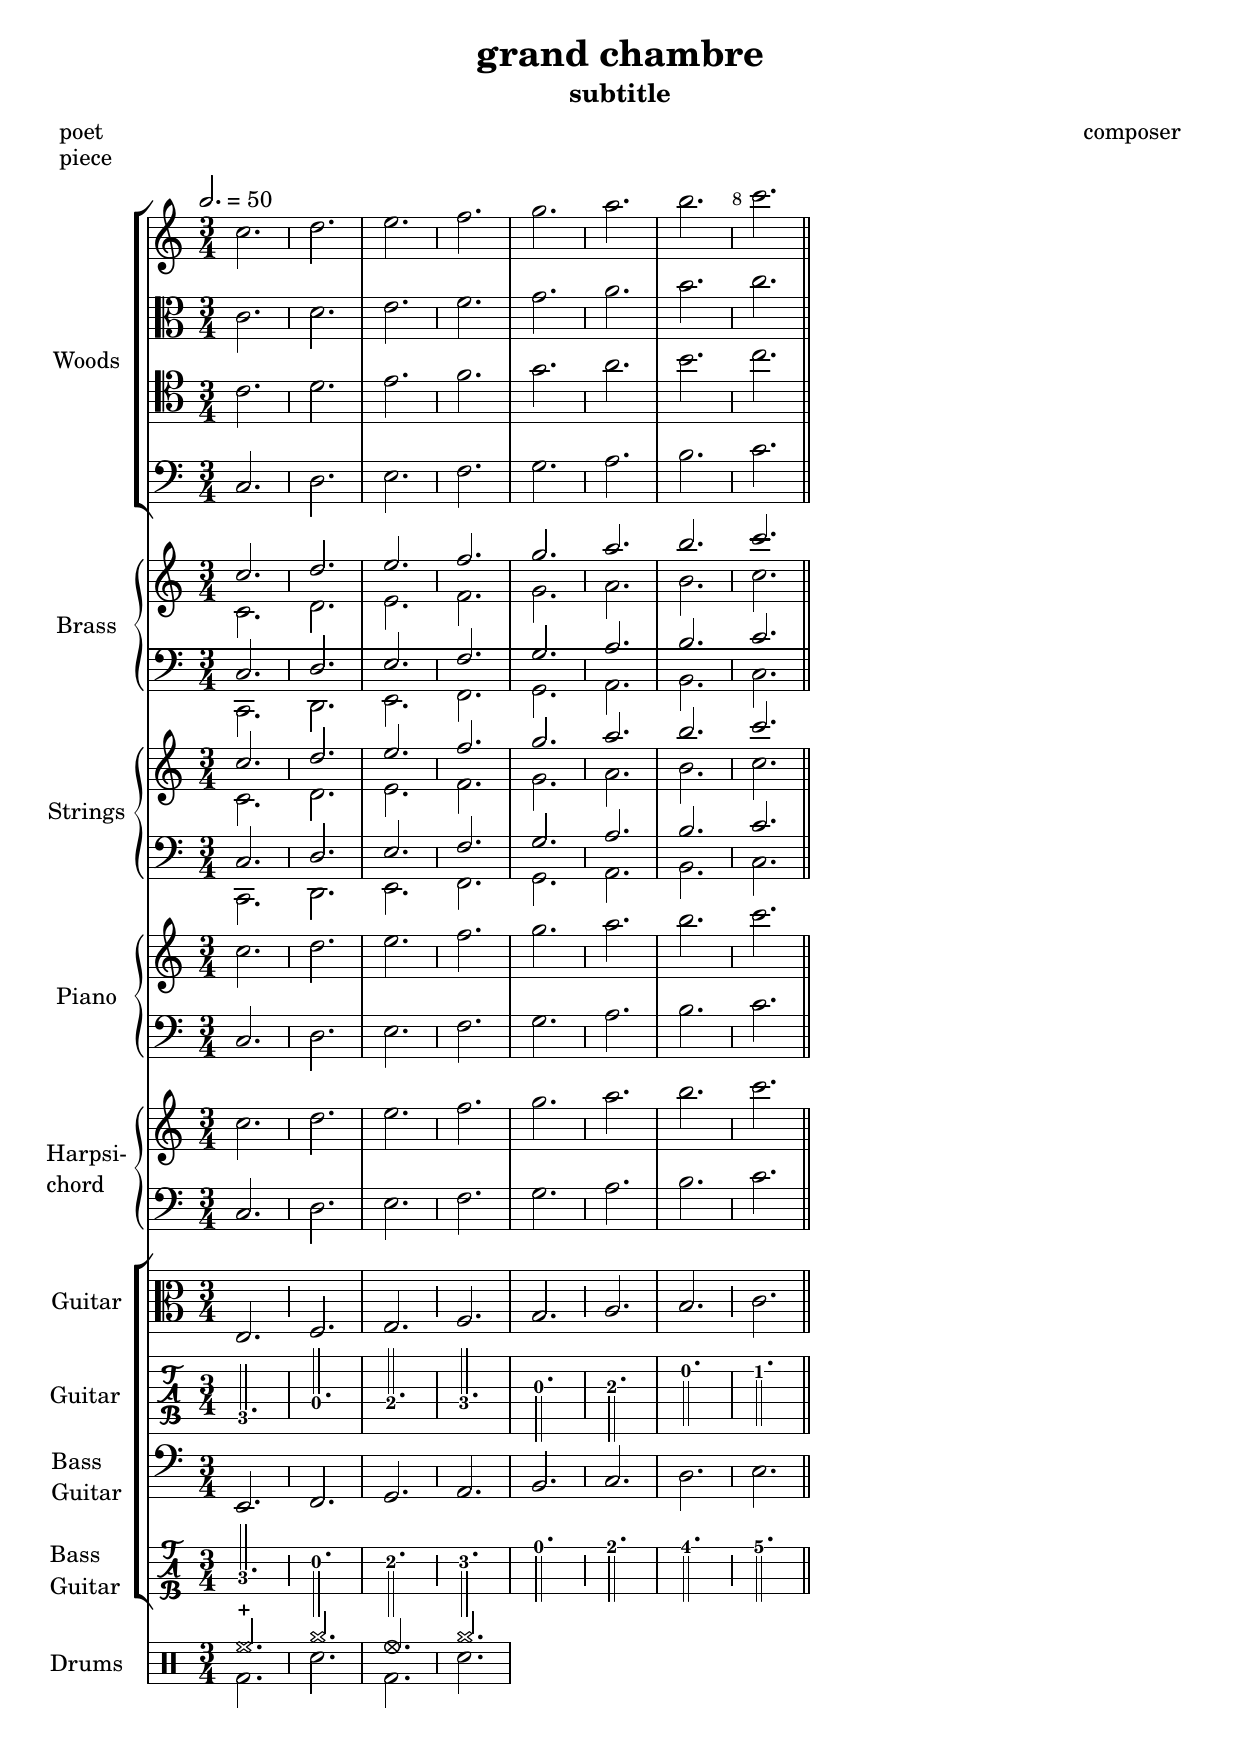
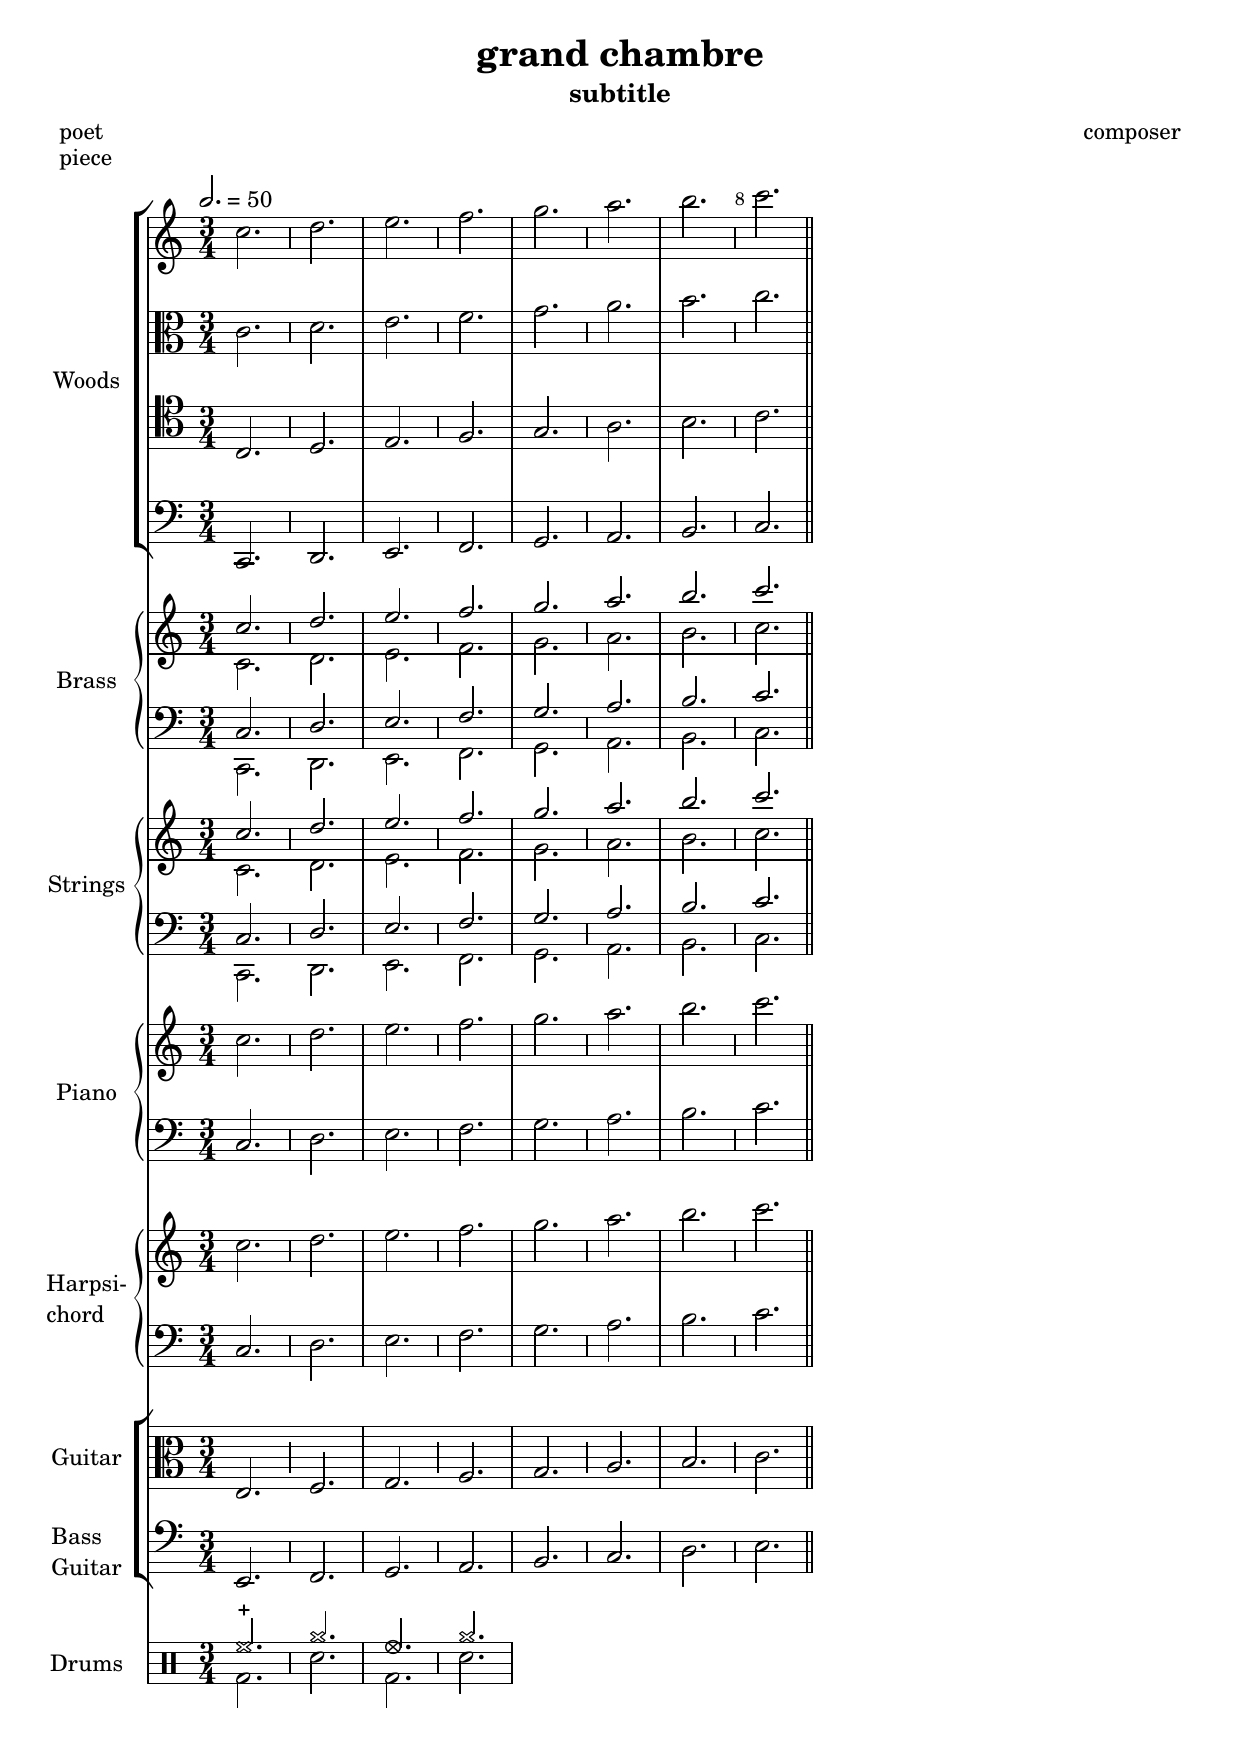
...

diff --git a/musica/templates/reception.html b/musica/templates/reception.html
@@ -3,7 +3,7 @@
 "http://www.w3.org/TR/xhtml1/DTD/xhtml1-strict.dtd">
 <html xmlns="http://www.w3.org/1999/xhtml" lang="en" xml:lang="en">
 <head>
-<!-- 2023-03-16 jeu 20:01 -->
+<!-- 2023-03-16 jeu 21:25 -->
 <meta http-equiv="Content-Type" content="text/html;charset=utf-8" />
 <meta name="viewport" content="width=device-width, initial-scale=1" />
 <title>Eclats de vers : Opus : Musica : Templates</title>
@@ -205,20 +205,20 @@
 <h2>Table of Contents</h2>
 <div id="text-table-of-contents" role="doc-toc">
 <ul>
-<li><a href="#orgd05445a">1. Eclats de vers : Musica : Templates : Grand chambre</a></li>
+<li><a href="#org3b9dc7f">1. Eclats de vers : Musica : Templates : Grand chambre</a></li>
 </ul>
 </div>
 </div>
 
-<div id="outline-container-orgd05445a" class="outline-2">
-<h2 id="orgd05445a"><span class="section-number-2">1.</span> Eclats de vers : Musica : Templates : Grand chambre</h2>
+<div id="outline-container-org3b9dc7f" class="outline-2">
+<h2 id="org3b9dc7f"><span class="section-number-2">1.</span> Eclats de vers : Musica : Templates : Grand chambre</h2>
 <div class="outline-text-2" id="text-1">
 <p>
 Le résultat :
 </p>
 
 
-<div id="org78cf1b9" class="figure">
+<div id="org3b9ba47" class="figure">
 <p><img src="../../image/musica/templates/reception.png" alt="reception.png" />
 </p>
 </div>
@@ -280,13 +280,13 @@ voiceWoodAlto = \fixed c' {
   \themeMelody
 }
 
-voiceWoodTenor = \fixed c' {
+voiceWoodTenor = \fixed c {
   \global
   % Music follows here.
   \themeMelody
 }
 
-voiceWoodBass = \fixed c {
+voiceWoodBass = \fixed c, {
   \global
   % Music follows here.
   \themeMelody
@@ -544,9 +544,9 @@ instrumentDrums = \new DrumStaff \with {
       \instrumentHarpsichord
       \new ChoirStaff &lt;&lt;
 	\instrumentGuitar
-	\instrumentTabGuitar
+	%\instrumentTabGuitar
 	\instrumentBassGuitar
-	\instrumentTabBassGuitar
+	%\instrumentTabBassGuitar
       &gt;&gt;
       \instrumentDrums
     &gt;&gt;
@@ -577,7 +577,7 @@ instrumentDrums = \new DrumStaff \with {
 </div>
 <div id="postamble" class="status">
 <p class="author">Author: chimay</p>
-<p class="date">Created: 2023-03-16 jeu 20:01</p>
+<p class="date">Created: 2023-03-16 jeu 21:25</p>
 <p class="validation"><a href="https://validator.w3.org/check?uri=referer">Validate</a></p>
 </div>
 </body>

diff --git a/musica/templates/sejour.html b/musica/templates/sejour.html
@@ -3,7 +3,7 @@
 "http://www.w3.org/TR/xhtml1/DTD/xhtml1-strict.dtd">
 <html xmlns="http://www.w3.org/1999/xhtml" lang="en" xml:lang="en">
 <head>
-<!-- 2023-03-16 jeu 21:16 -->
+<!-- 2023-03-16 jeu 21:25 -->
 <meta http-equiv="Content-Type" content="text/html;charset=utf-8" />
 <meta name="viewport" content="width=device-width, initial-scale=1" />
 <title>Eclats de vers : Opus : Musica : Templates</title>
@@ -205,20 +205,20 @@
 <h2>Table of Contents</h2>
 <div id="text-table-of-contents" role="doc-toc">
 <ul>
-<li><a href="#org9ade8df">1. Eclats de vers : Musica : Templates : Mini chambre</a></li>
+<li><a href="#orgd5cfae6">1. Eclats de vers : Musica : Templates : Mini chambre</a></li>
 </ul>
 </div>
 </div>
 
-<div id="outline-container-org9ade8df" class="outline-2">
-<h2 id="org9ade8df"><span class="section-number-2">1.</span> Eclats de vers : Musica : Templates : Mini chambre</h2>
+<div id="outline-container-orgd5cfae6" class="outline-2">
+<h2 id="orgd5cfae6"><span class="section-number-2">1.</span> Eclats de vers : Musica : Templates : Mini chambre</h2>
 <div class="outline-text-2" id="text-1">
 <p>
 Le résultat :
 </p>
 
 
-<div id="orgebff27f" class="figure">
+<div id="orgae5c0fd" class="figure">
 <p><img src="../../image/musica/templates/sejour.png" alt="sejour.png" />
 </p>
 </div>
@@ -280,13 +280,13 @@ voiceWoodAlto = \fixed c' {
   \themeMelody
 }
 
-voiceWoodTenor = \fixed c' {
+voiceWoodTenor = \fixed c {
   \global
   % Music follows here.
   \themeMelody
 }
 
-voiceWoodBass = \fixed c {
+voiceWoodBass = \fixed c, {
   \global
   % Music follows here.
   \themeMelody
@@ -467,7 +467,7 @@ instrumentHarpsichord = \new GrandStaff \with {
     \midi {
       \context {
 	\Score
-	midiChannelMapping = #'instrument
+	%midiChannelMapping = #'instrument
 	%\enablePolymeter
       }
     }
@@ -490,7 +490,7 @@ instrumentHarpsichord = \new GrandStaff \with {
 </div>
 <div id="postamble" class="status">
 <p class="author">Author: chimay</p>
-<p class="date">Created: 2023-03-16 jeu 21:16</p>
+<p class="date">Created: 2023-03-16 jeu 21:25</p>
 <p class="validation"><a href="https://validator.w3.org/check?uri=referer">Validate</a></p>
 </div>
 </body>
